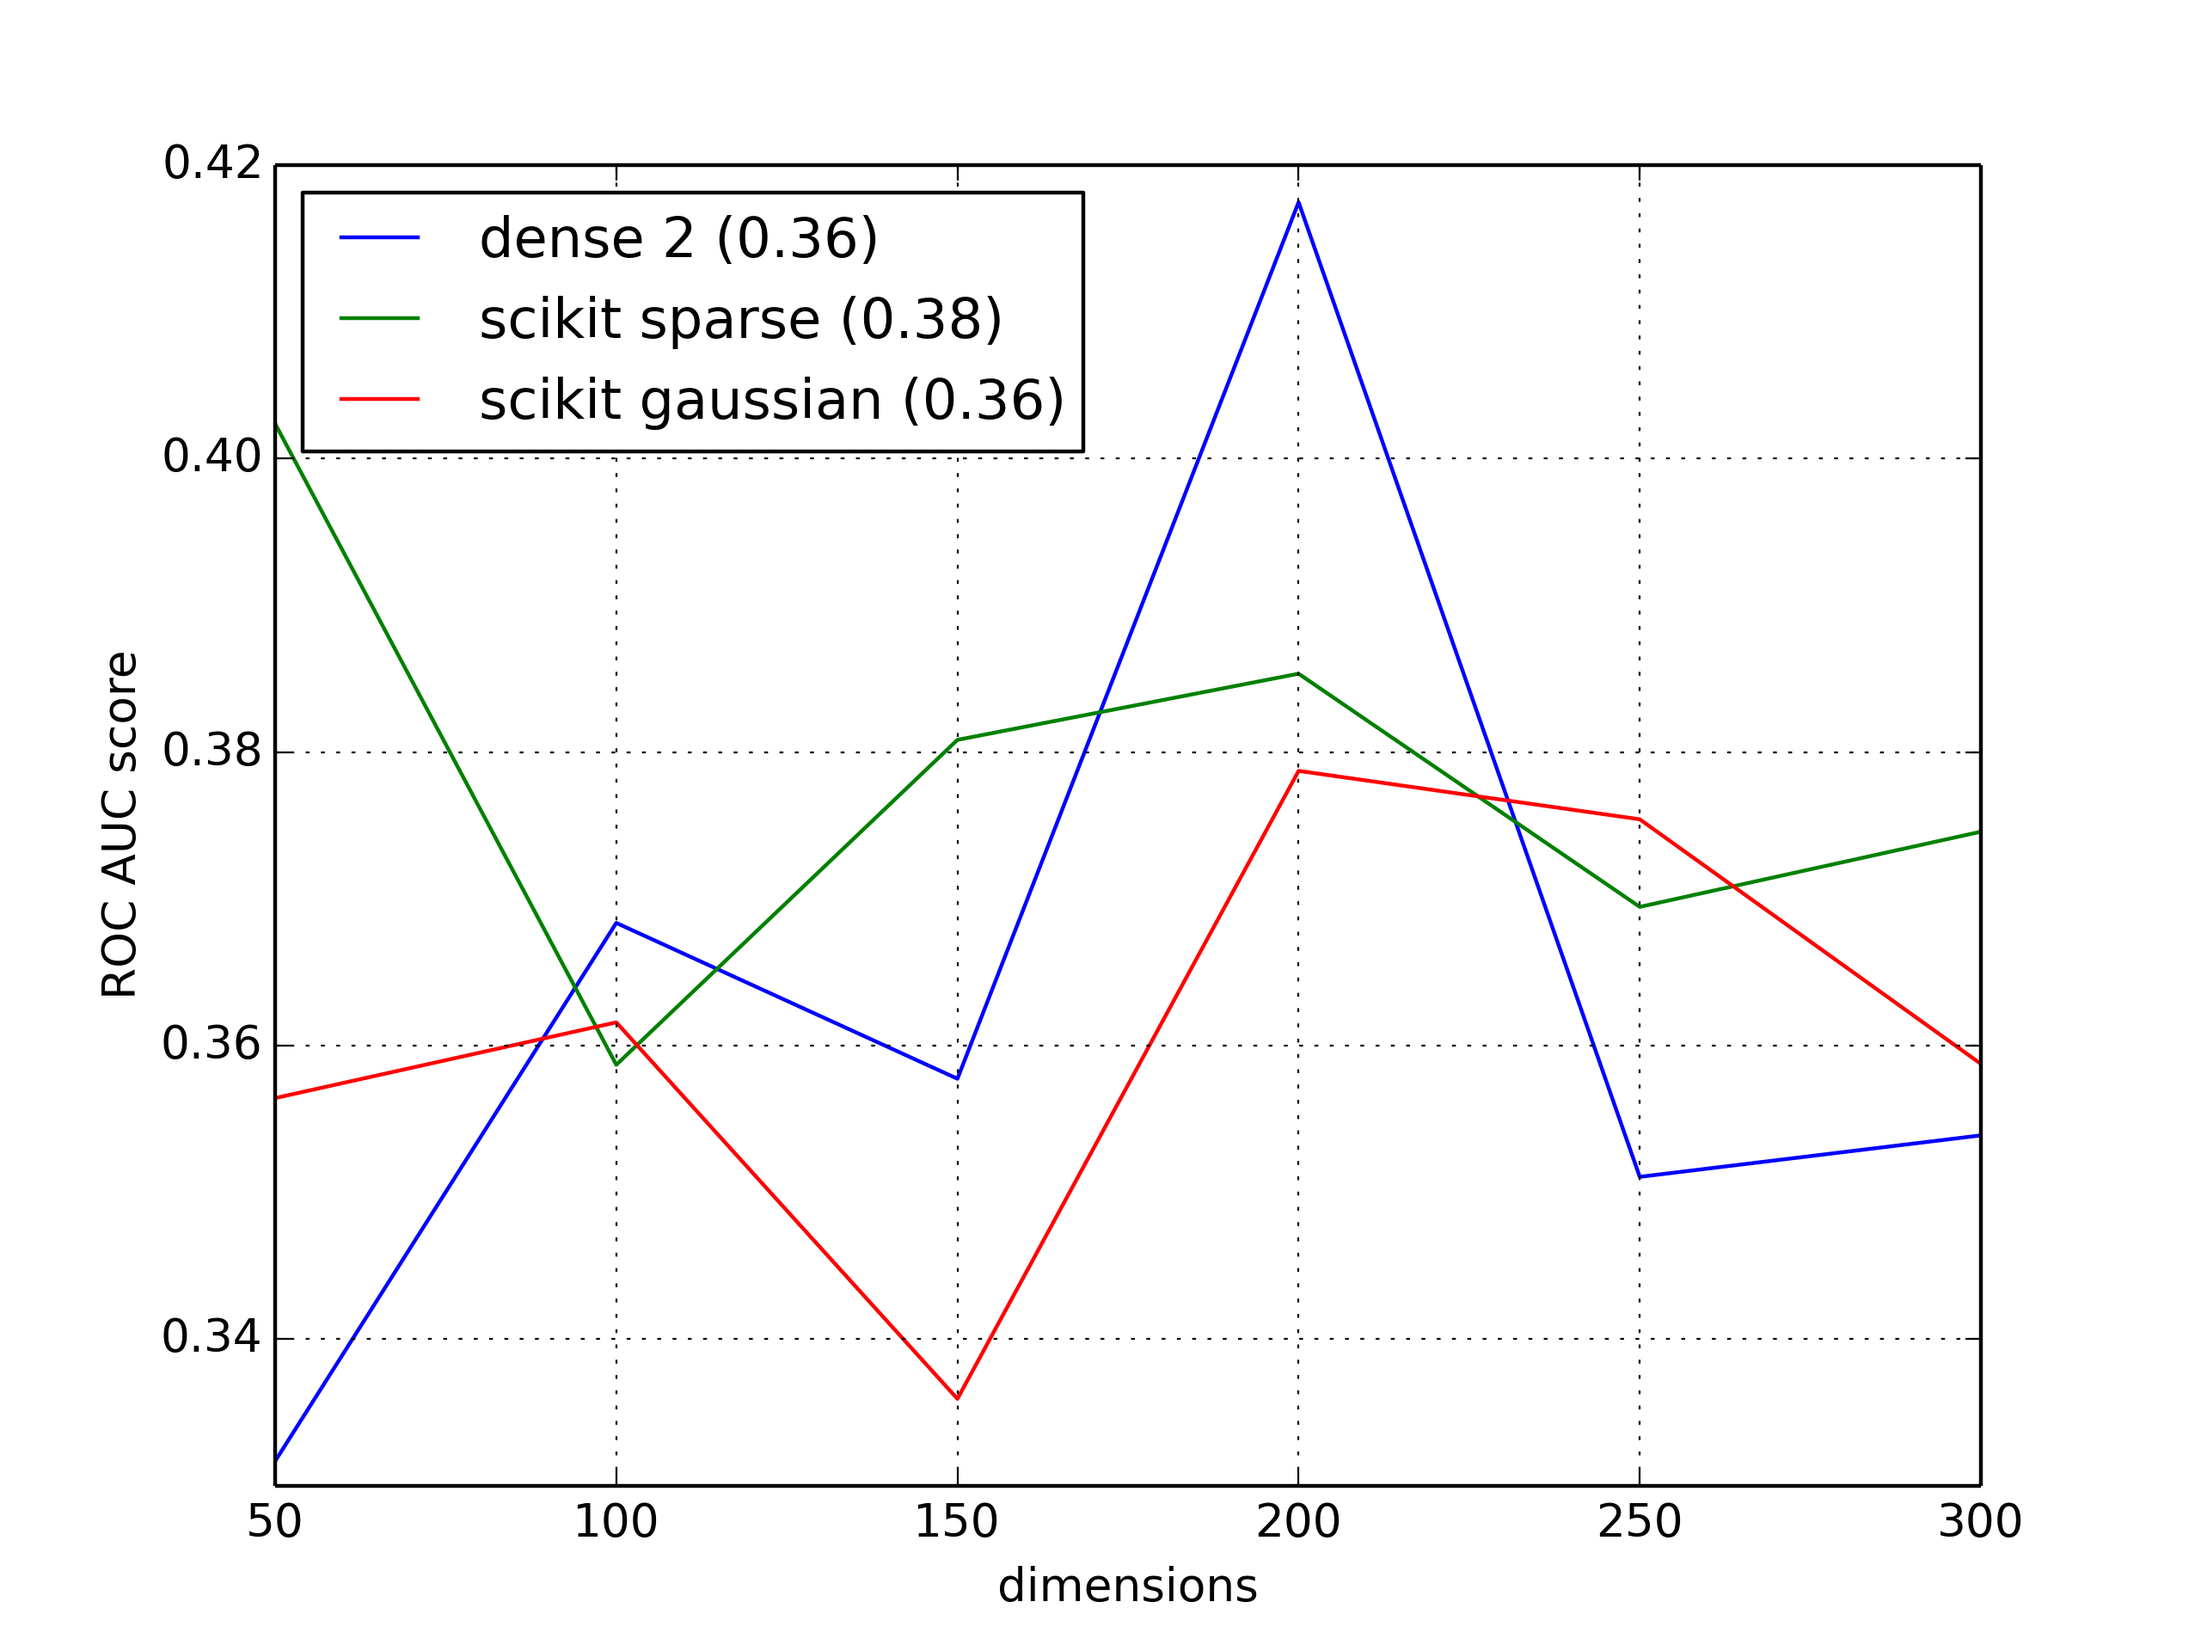
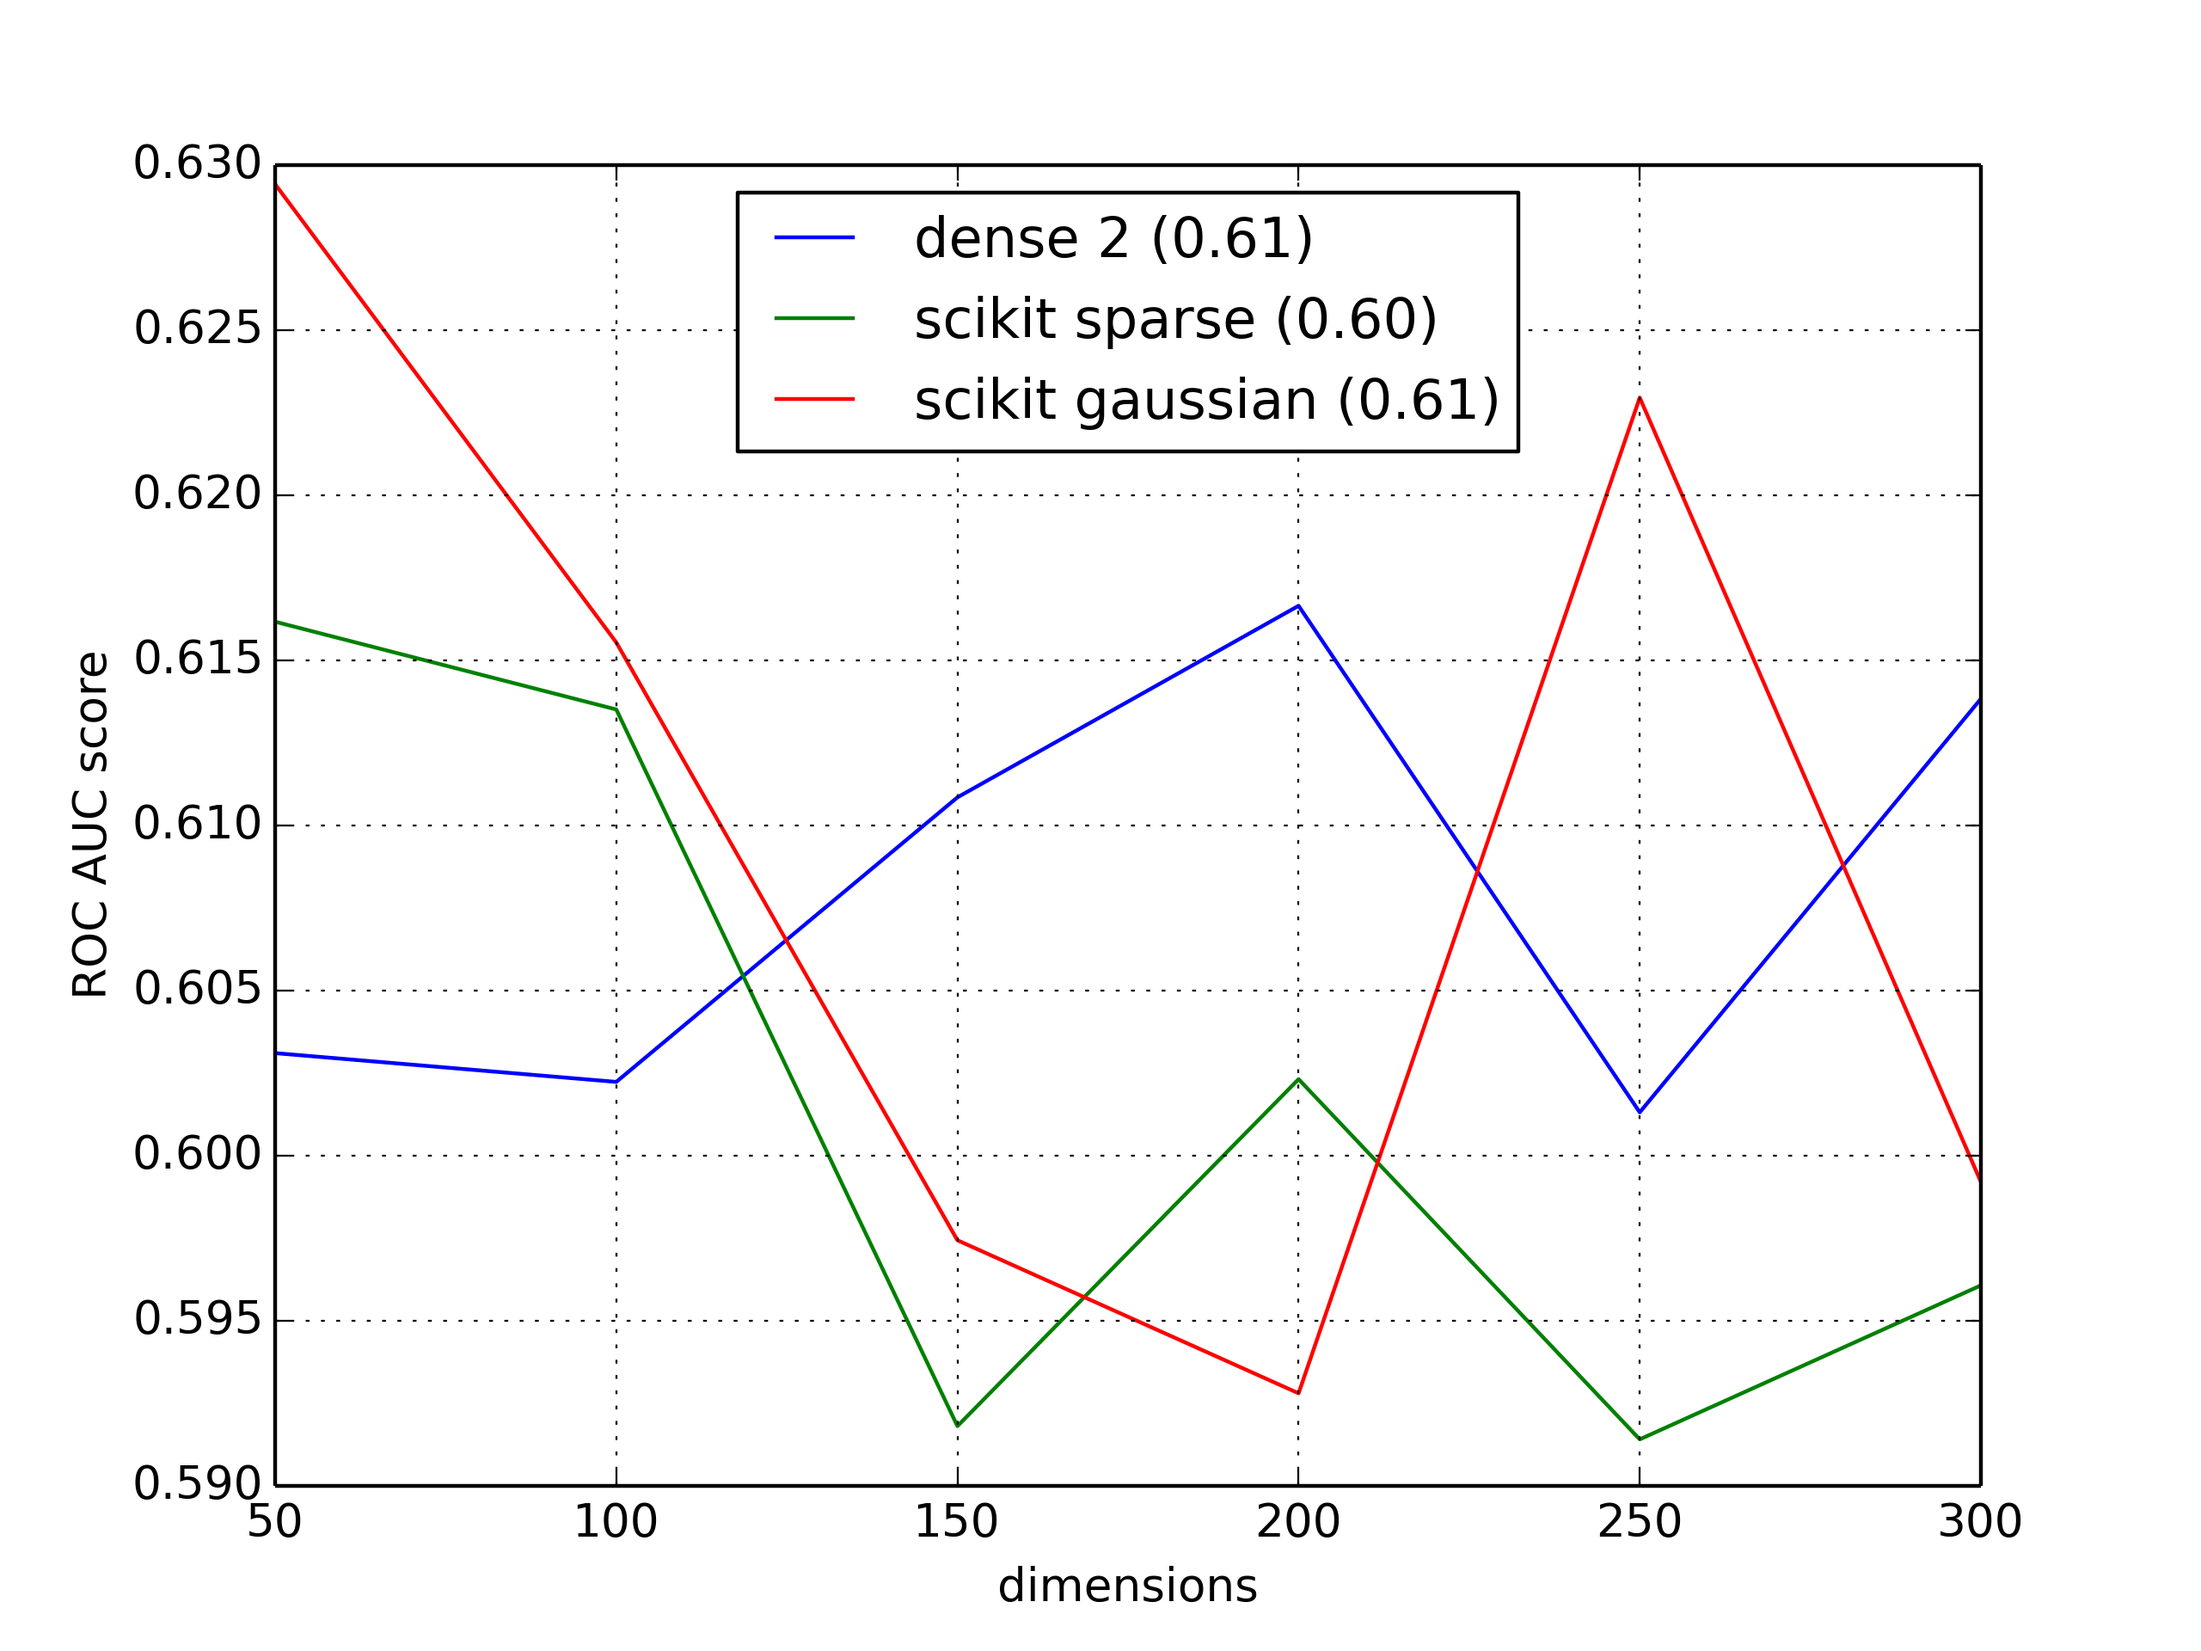
more tests

diff --git a/random-projection/quality-roc-auc.py b/random-projection/quality-roc-auc.py
@@ -60,7 +60,7 @@ def runExperiment(setup):
         roc_auc = []
         for dimension in dimensions:
             avg_roc_auc = []
-            for k in range(0, 5):
+            for k in range(0, 20):
                 randomMatrix = dist(orig_shape[0], orig_shape[1], dimension)
                 if isinstance(randomMatrix, np.ndarray):
                     randomMatrix = csr_matrix(randomMatrix)
@@ -150,4 +150,4 @@ experiment8 = experiment2.copy()
 experiment8["id"] = 8
 experiment8["data"] = getThirdPlistaData
 
-runExperiment(experiment8)
+runExperiment(experiment7)
